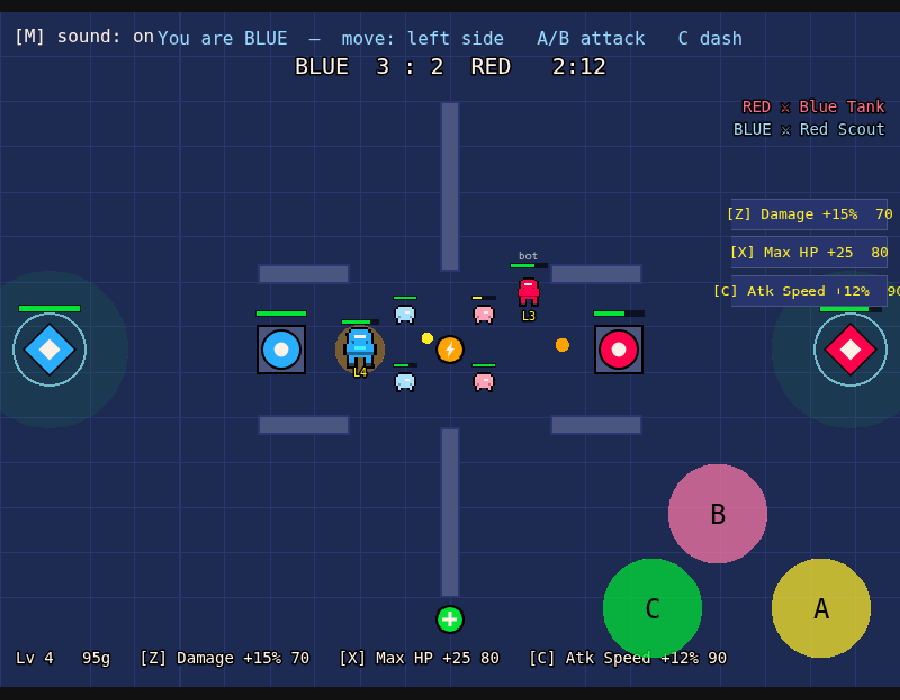
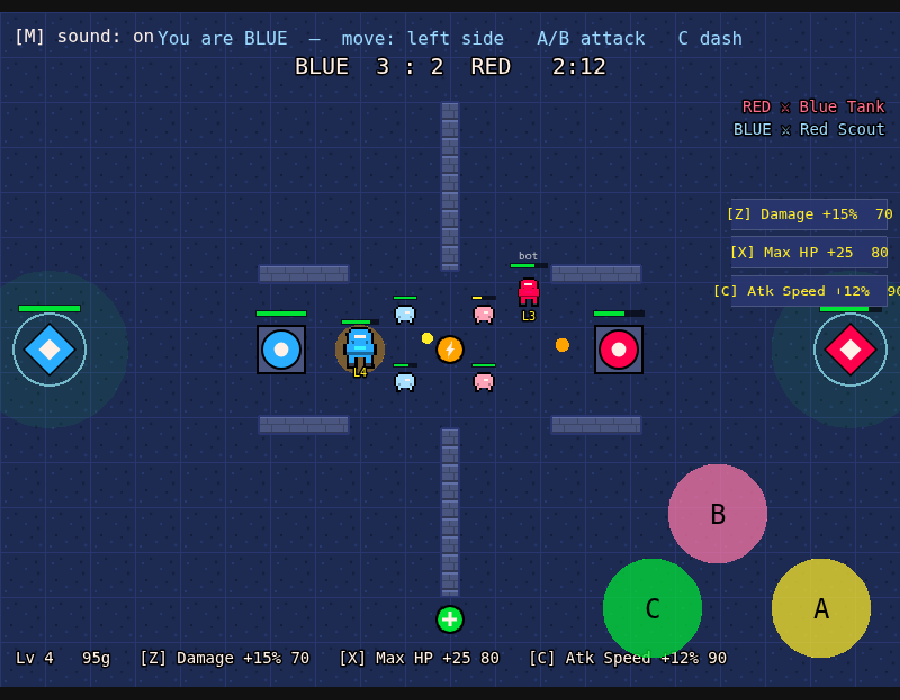
Pixel-art pass 2: tiled stone terrain (floor + walls)
Replace the flat background fill + grid lines and the plain rectangle walls with
real tiled pixel-art terrain:
- A 40x40 floor tile: dark-blue stone with tile-seam edges and a fixed scatter
  of light/dark specks (deterministic, so render tests stay stable), tiled
  across the arena via a tileSprite.
- A 16x16 wall tile: lit top edge, shaded bottom, and brick seams, tiled to fill
  each WALLS rectangle, with the existing dark outline kept on top.

drawGrid/drawWalls now place tileSprites instead of drawing primitives; no
layout, collision, or config changes (walls still come from WALLS). 47/47 test
groups pass; live two-browser test passes; build OK. Showcase regenerated.

https://claude.ai/code/session_01MAXKRUpJFcKFAvV2b8xTXo

diff --git a/src/textures.js b/src/textures.js
@@ -189,8 +189,58 @@ function makePickupTexture(scene, key, kind) {
   g.destroy();
 }
 
+// A 40×40 floor tile: the dark-blue base with a faint seam at the top/left edge
+// and a fixed scatter of slightly lighter/darker specks, so a tiled floor looks
+// like textured stone instead of a flat fill. Deterministic (no randomness), so
+// the render tests stay stable.
+function makeFloorTexture(scene, key) {
+  const S = 40;
+  const g = scene.make.graphics({ x: 0, y: 0 }, false);
+  g.fillStyle(COLORS.bg, 1);
+  g.fillRect(0, 0, S, S);
+  // Seam lines along two edges read as tile grout.
+  g.fillStyle(COLORS.grid, 1);
+  g.fillRect(0, 0, S, 1);
+  g.fillRect(0, 0, 1, S);
+  // A fixed speckle pattern: light flecks and dark pits at set cells.
+  const light = shade(COLORS.bg, 1.35);
+  const dark = shade(COLORS.bg, 0.7);
+  const flecks = [
+    [6, 9, light], [13, 5, dark], [22, 14, light], [31, 8, dark],
+    [9, 24, dark], [18, 30, light], [27, 26, dark], [35, 33, light],
+    [4, 34, light], [33, 18, dark],
+  ];
+  for (const [x, y, c] of flecks) {
+    g.fillStyle(c, 1);
+    g.fillRect(x, y, 2, 2);
+  }
+  g.generateTexture(key, S, S);
+  g.destroy();
+}
+
+// A 16×16 stone wall tile: a lit top, a shaded bottom, and a couple of darker
+// "bricks" so a tiled wall has texture and a sense of height.
+function makeWallTexture(scene, key) {
+  const S = 16;
+  const g = scene.make.graphics({ x: 0, y: 0 }, false);
+  g.fillStyle(COLORS.wall, 1);
+  g.fillRect(0, 0, S, S);
+  g.fillStyle(shade(COLORS.wall, 1.3), 1); // lit top edge
+  g.fillRect(0, 0, S, 2);
+  g.fillStyle(shade(COLORS.wall, 0.65), 1); // shaded bottom edge
+  g.fillRect(0, S - 2, S, 2);
+  g.fillStyle(shade(COLORS.wall, 0.8), 1); // brick seams
+  g.fillRect(0, 7, S, 1);
+  g.fillRect(7, 2, 1, 5);
+  g.fillRect(11, 8, 1, 6);
+  g.generateTexture(key, S, S);
+  g.destroy();
+}
+
 // Called once when the arena starts. Creates every texture the game needs.
 export function generateTextures(scene) {
+  makeFloorTexture(scene, "floor");
+  makeWallTexture(scene, "wall");
   makeCharacterTexture(scene, "player_blue", COLORS.blueTeam);
   makeCharacterTexture(scene, "player_red", COLORS.redTeam);
   makeBaseTexture(scene, "base_blue", COLORS.blueTeam);

diff --git a/src/scenes/ArenaScene.js b/src/scenes/ArenaScene.js
@@ -862,25 +862,28 @@ export default class ArenaScene extends Phaser.Scene {
   }
 
   drawGrid() {
-    const g = this.add.graphics();
-    g.fillStyle(COLORS.bg, 1);
-    g.fillRect(0, 0, GAME_WIDTH, GAME_HEIGHT);
-    g.lineStyle(1, COLORS.grid, 1);
-    const step = 40;
-    for (let x = 0; x <= GAME_WIDTH; x += step) g.lineBetween(x, 0, x, GAME_HEIGHT);
-    for (let y = 0; y <= GAME_HEIGHT; y += step) g.lineBetween(0, y, GAME_WIDTH, y);
-    g.setDepth(-10);
+    // A tiled stone-floor texture across the whole arena (replaces the old flat
+    // fill + grid lines). tileSprite repeats the 40×40 floor tile for us.
+    this.add
+      .tileSprite(0, 0, GAME_WIDTH, GAME_HEIGHT, "floor")
+      .setOrigin(0, 0)
+      .setDepth(-10);
   }
 
-  // Draw the solid obstacles from config. They sit above the grid but below
-  // the players and bolts, so characters clearly pass in front of them.
+  // Draw the solid obstacles from config as tiled stone walls, with a dark
+  // outline. They sit above the floor but below players/bolts, so characters
+  // clearly pass in front of them.
   drawWalls() {
-    const g = this.add.graphics().setDepth(-5);
     for (const w of WALLS) {
-      g.fillStyle(COLORS.wall, 1);
-      g.fillRect(w.x, w.y, w.w, w.h);
-      g.lineStyle(2, COLORS.wallEdge, 1);
-      g.strokeRect(w.x, w.y, w.w, w.h);
+      this.add
+        .tileSprite(w.x, w.y, w.w, w.h, "wall")
+        .setOrigin(0, 0)
+        .setDepth(-5);
+      this.add
+        .rectangle(w.x, w.y, w.w, w.h)
+        .setOrigin(0, 0)
+        .setStrokeStyle(2, COLORS.wallEdge, 1)
+        .setDepth(-5);
     }
   }
 }
